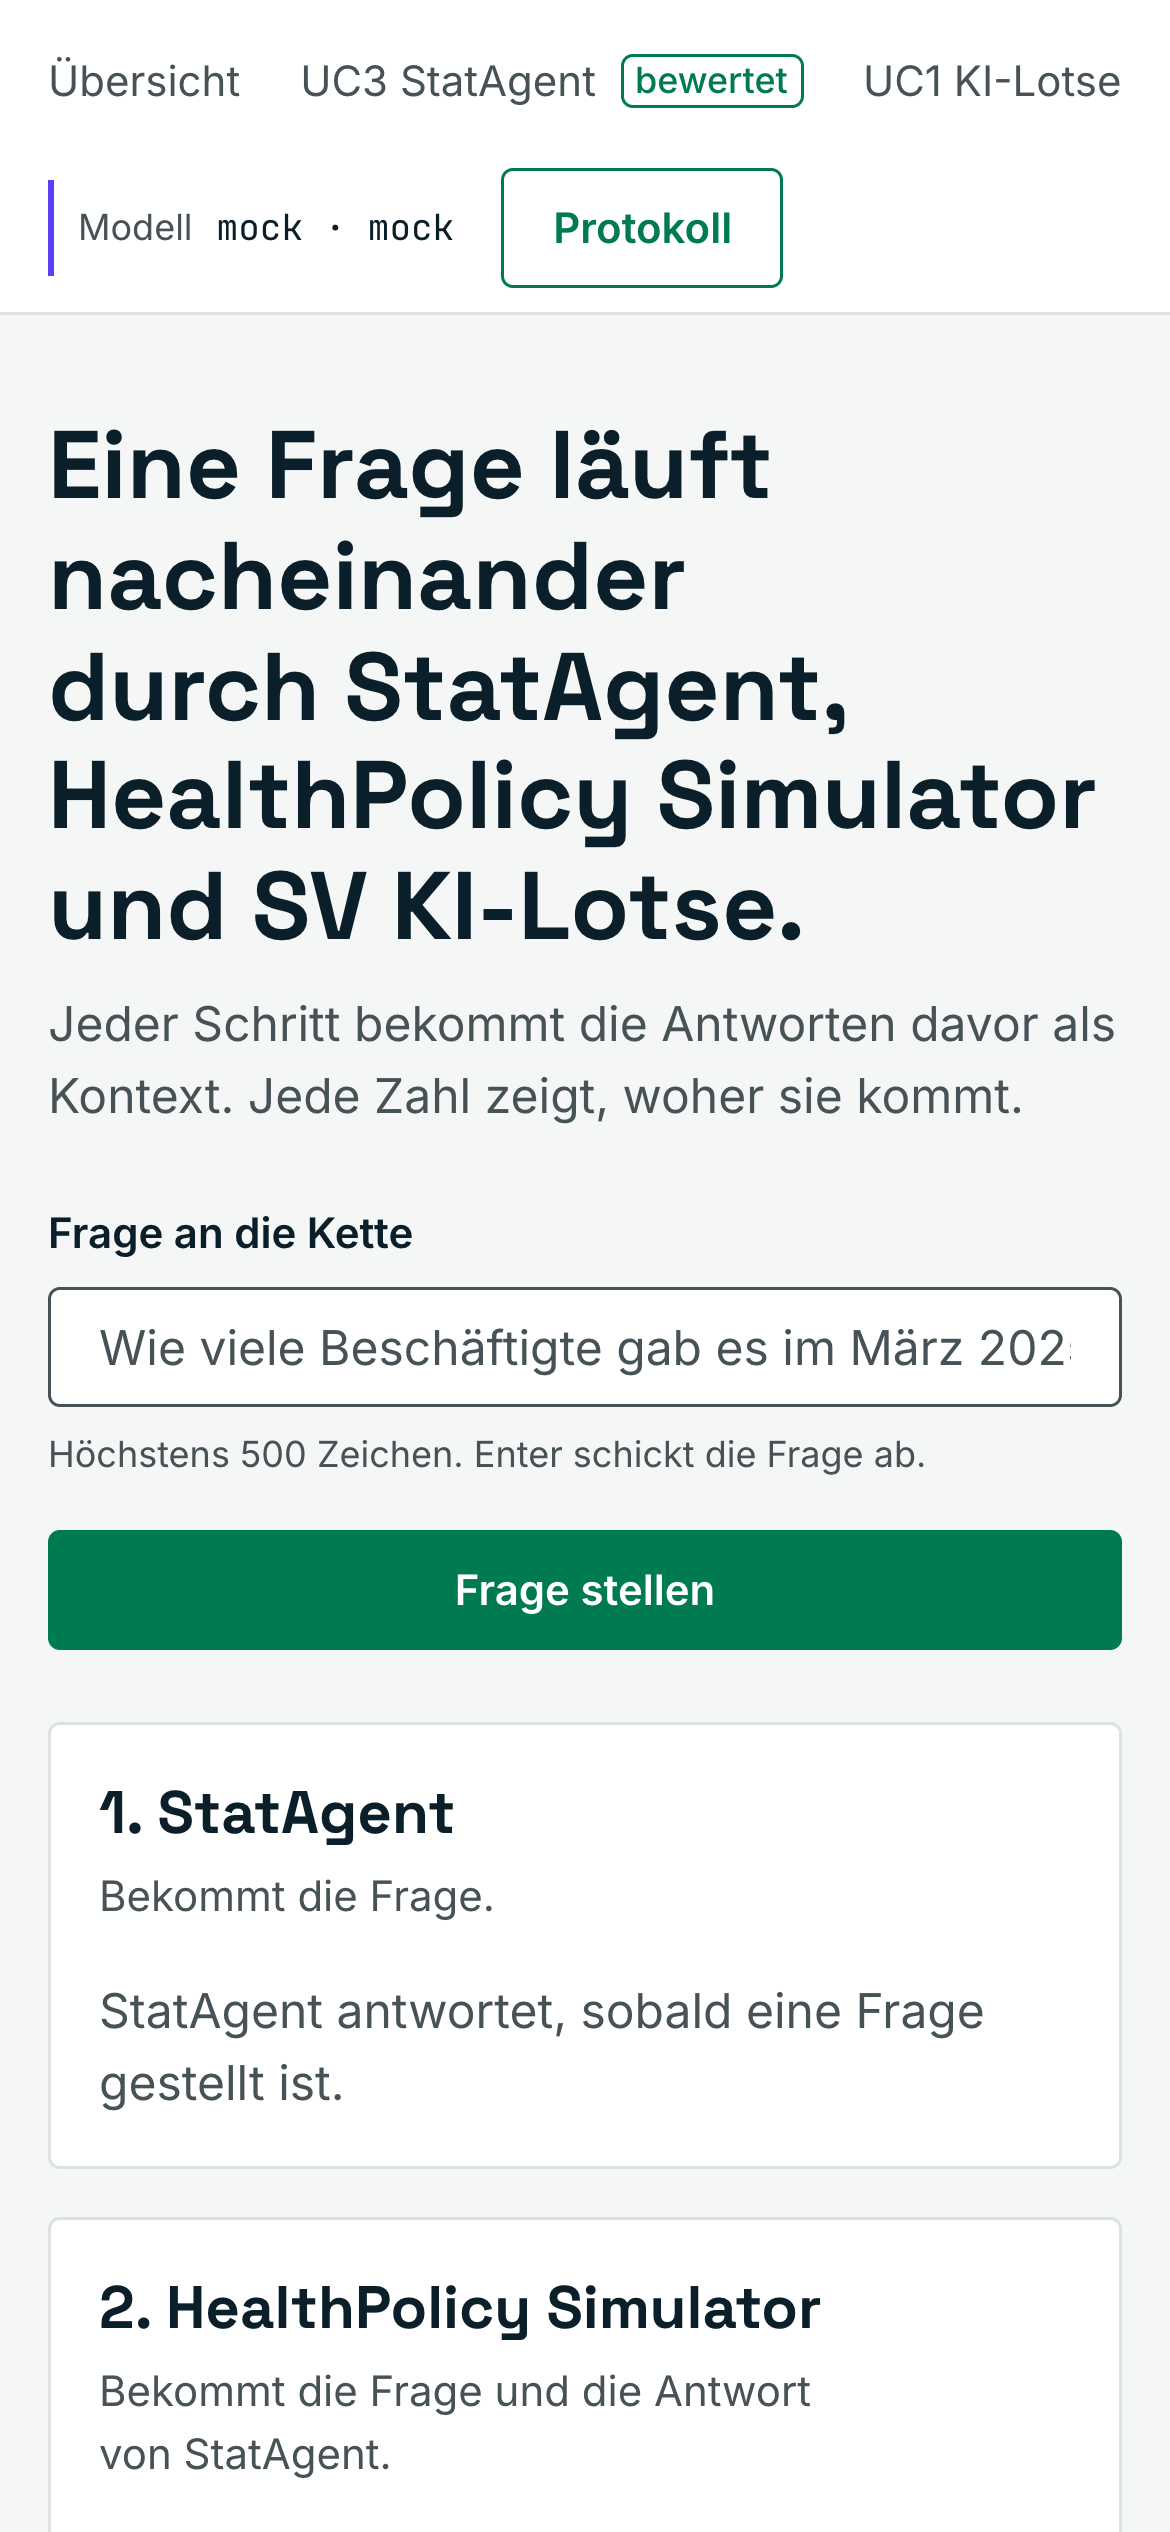
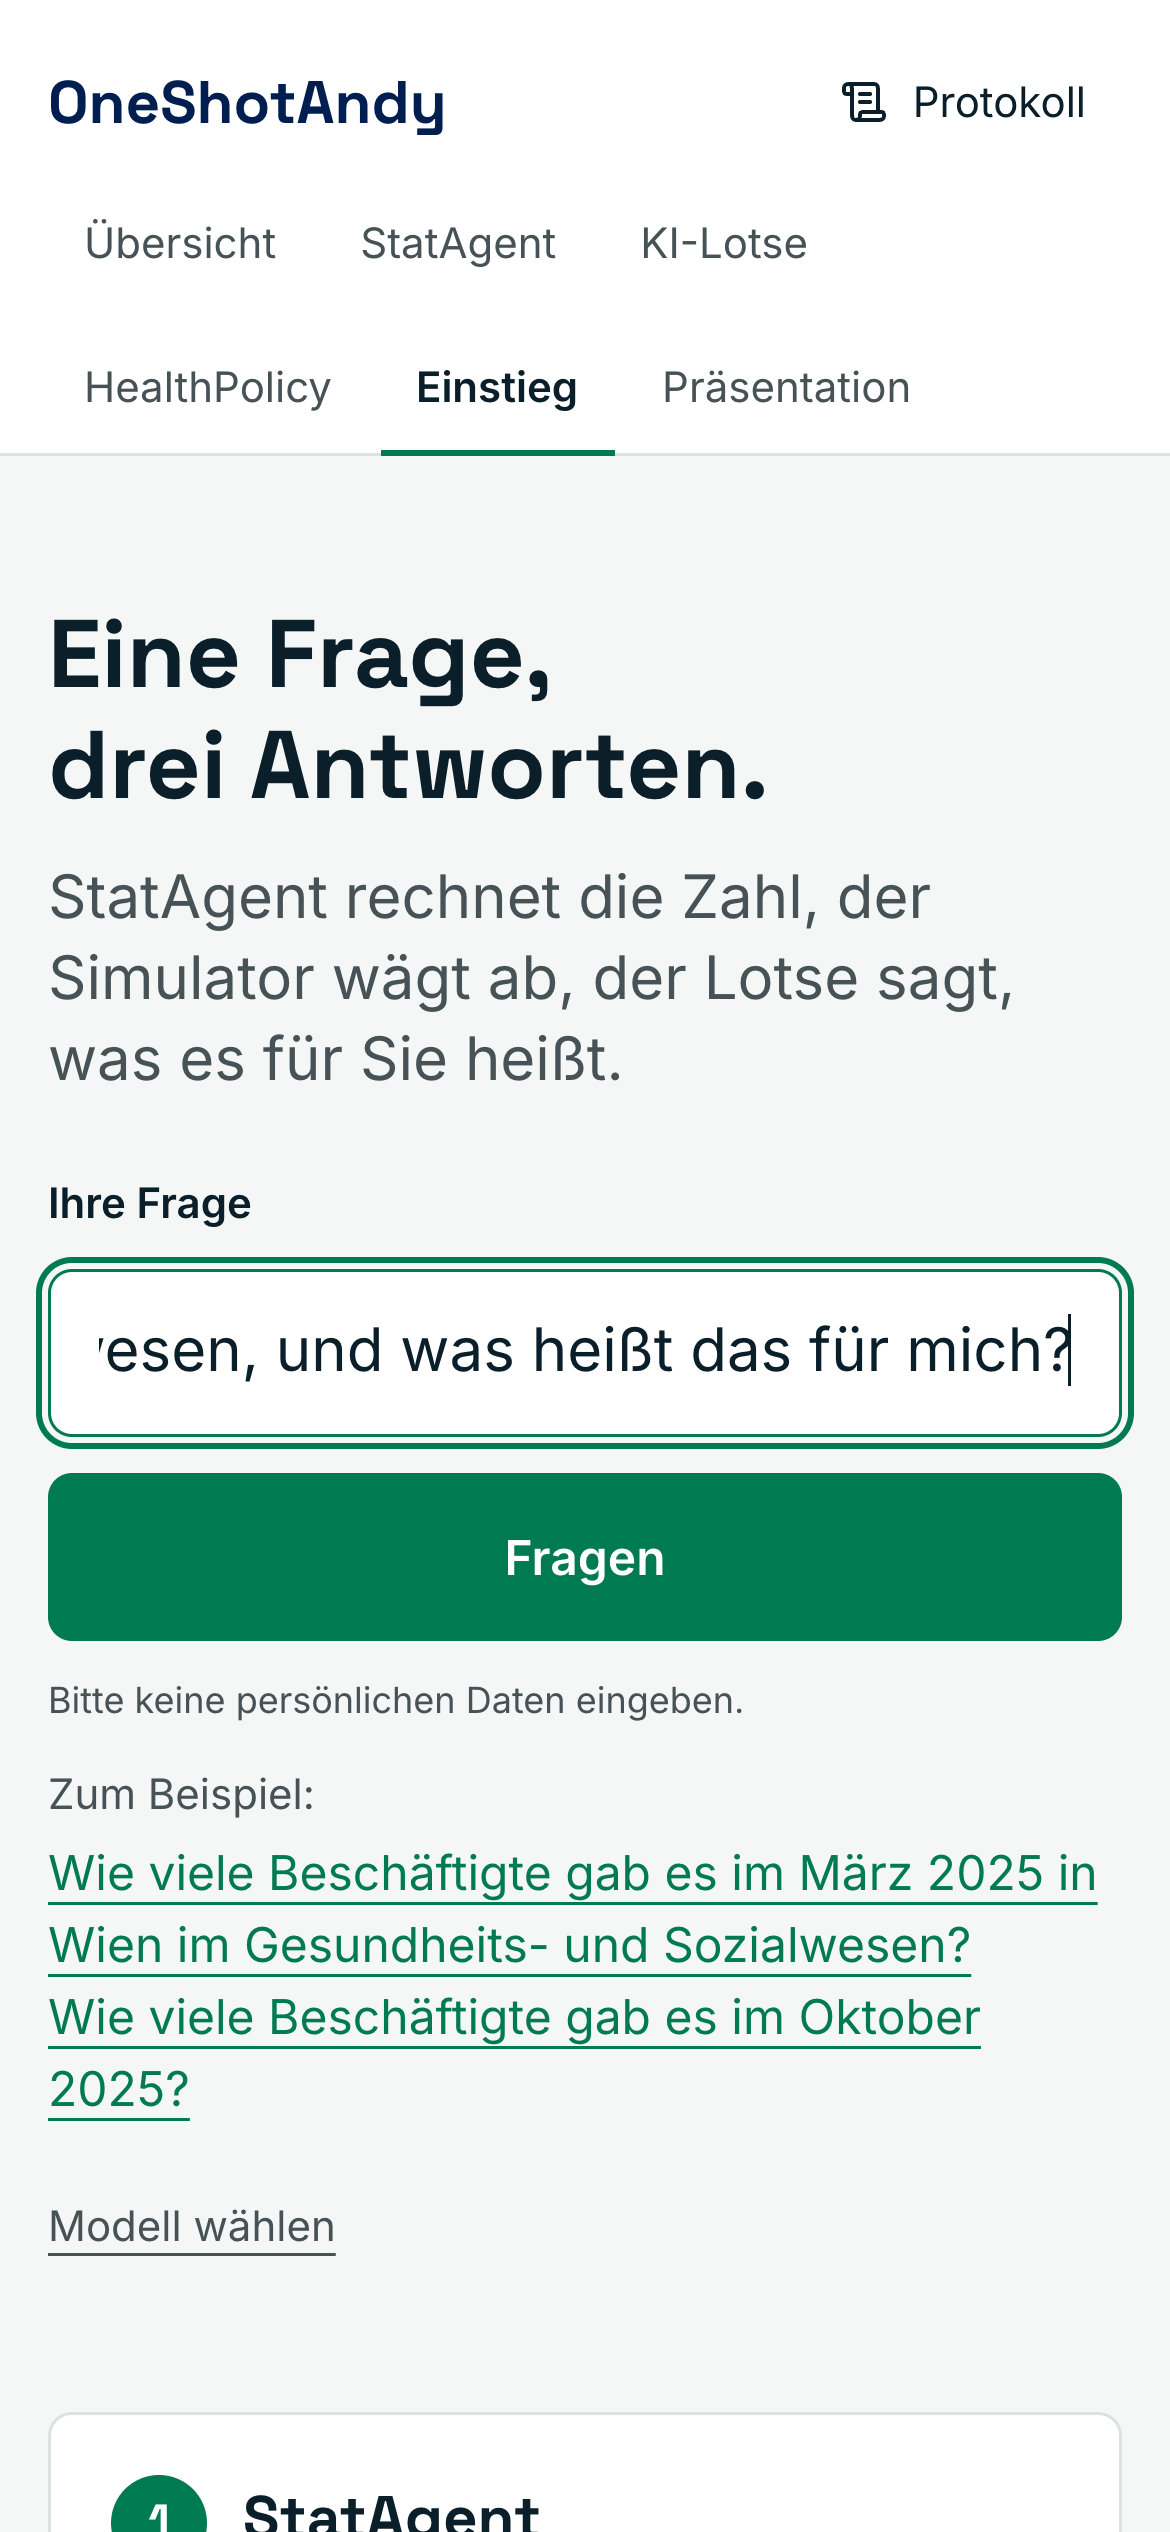
feat(e5): Screenshots SC01 bis SC12 von der Online-Demo, Werkzeug auf den neuen Stand (#88, #141)
12/12 gültig laut screens_manifest.py --check. SC11 stellt die Wien-Frage und
bricht ab, wenn 7.498 fehlt. SC02 und SC08 klappen ihre Regel samt Begründung
auf. SC12 zeigt Vorschlag 24 mit Zahlen vorher und nachher. Die Sichtprüfung
durch eine zweite Person ist noch offen.

diff --git a/docs/praesentation/screens-manifest.md b/docs/praesentation/screens-manifest.md
@@ -5,19 +5,30 @@ Je Bild stehen Herkunft (Route, Commit, Lauf) und Art (live, Testdaten, Aufzeich
 
 | Bild | Motiv | Folie | Datei vorhanden | Breite | Höhe | SHA-256 | Route | Commit | Lauf | Art | aufgenommen am |
 |---|---|---|---|---|---|---|---|---|---|---|---|
-| SC01 | Monatsläufe: 24 Monate mit Status | 3 | nein | – | – | – | /uc3 | – | – | offen | – |
-| SC02 | Eine Regel mit Gültigkeit, Begründung und Freigabe | 4 | nein | – | – | – | /uc3/berichte/regeln | – | – | offen | – |
-| SC03 | Gemeinsamer Einstieg: eine Frage an alle drei | 1 | nein | – | – | – | /uc4 | – | – | offen | – |
-| SC04 | Qualitätsbericht August 2024, der Monat der Vorlage | 5 | nein | – | – | – | /uc3/berichte/2024-08 | – | – | offen | – |
-| SC05 | Zwei Branchenlisten mit Gültigkeit | 7 | nein | – | – | – | /uc3/klassifikationen | – | – | offen | – |
-| SC06 | Qualitätsbericht März 2025 mit Auffälligkeiten | 6 | nein | – | – | – | /uc3/berichte/2025-03 | – | – | offen | – |
-| SC07 | Qualitätsbericht Oktober 2025, Monat angehalten | 3 | nein | – | – | – | /uc3/berichte/2025-10 | – | – | offen | – |
-| SC08 | Regel R5_alter als Daten | 8 | nein | – | – | – | /uc3/berichte/regeln | – | – | offen | – |
-| SC09 | Übersicht: drei Use Cases, ein Kern | 2 | nein | – | – | – | / | – | – | offen | – |
-| SC10 | Erledigte Freigabe mit Name und Wirkung | 10 | nein | – | – | – | /uc3/freigaben?reiter=erledigt | – | – | offen | – |
-| SC11 | Gemeinsamer Einstieg mit Antwort und Beleg | 9 | ja | 1920 | 1080 | `4f2307d2fb7b7b90`[^SC11] | /uc4 | 4495de3cf9f5 | – | live | 2026-11-05T16:27:58+01:00 |
-| SC12 | Agent-Vorschlag mit Diff vor der Freigabe | 4 | nein | – | – | – | /uc3/freigaben | – | – | offen | – |
+| SC01 | Monatsläufe: 24 Monate mit Status | 3 | ja | 1920 | 1080 | `b379e5c461b4b28b`[^SC01] | /uc3 | fd936b3 | Online-Demo, Stand 05.11.2026 | live | 2026-11-05T22:11+01:00 |
+| SC02 | Eine Regel mit Gültigkeit, Begründung und Freigabe | 4 | ja | 1920 | 1080 | `c08fe54b92e8b636`[^SC02] | /uc3/berichte/regeln | fd936b3 | Online-Demo, Stand 05.11.2026 | live | 2026-11-05T22:11+01:00 |
+| SC03 | Gemeinsamer Einstieg: eine Frage an alle drei | 1 | ja | 1920 | 1080 | `250966055cd39cd6`[^SC03] | /uc4 | fd936b3 | Online-Demo, Stand 05.11.2026 | live | 2026-11-05T22:11+01:00 |
+| SC04 | Qualitätsbericht August 2024, der Monat der Vorlage | 5 | ja | 1920 | 1080 | `a16262ed95ad2269`[^SC04] | /uc3/berichte/2024-08 | fd936b3 | Online-Demo, Stand 05.11.2026 | live | 2026-11-05T22:11+01:00 |
+| SC05 | Zwei Branchenlisten mit Gültigkeit | 7 | ja | 1920 | 1080 | `48a9db9d2fddce06`[^SC05] | /uc3/klassifikationen | fd936b3 | Online-Demo, Stand 05.11.2026 | live | 2026-11-05T22:11+01:00 |
+| SC06 | Qualitätsbericht März 2025 mit Auffälligkeiten | 6 | ja | 1920 | 1080 | `cbccd9f9f81987fa`[^SC06] | /uc3/berichte/2025-03 | fd936b3 | Online-Demo, Stand 05.11.2026 | live | 2026-11-05T22:11+01:00 |
+| SC07 | Qualitätsbericht Oktober 2025, Monat angehalten | 3 | ja | 1920 | 1080 | `aa4ea228e3452768`[^SC07] | /uc3/berichte/2025-10 | fd936b3 | Online-Demo, Stand 05.11.2026 | live | 2026-11-05T22:11+01:00 |
+| SC08 | Regel R5_alter als Daten | 8 | ja | 1920 | 1080 | `cdbfac747cf62de2`[^SC08] | /uc3/berichte/regeln | fd936b3 | Online-Demo, Stand 05.11.2026 | live | 2026-11-05T22:11+01:00 |
+| SC09 | Übersicht: drei Use Cases, ein Kern | 2 | ja | 1920 | 1080 | `16719f54a2b32a07`[^SC09] | / | fd936b3 | Online-Demo, Stand 05.11.2026 | live | 2026-11-05T22:11+01:00 |
+| SC10 | Erledigte Freigabe mit Name und Wirkung | 10 | ja | 1920 | 1080 | `5a0035f8ca340db4`[^SC10] | /uc3/freigaben/26 | fd936b3 | Online-Demo, Stand 05.11.2026 | live | 2026-11-05T22:11+01:00 |
+| SC11 | Gemeinsamer Einstieg mit der Wien-Frage: drei Antworten, 7.498 mit Beleg | 9 | ja | 1920 | 1080 | `25542604c2c87b42`[^SC11] | /uc4 | fd936b3 | Online-Demo, Stand 05.11.2026 | live | 2026-11-05T22:11+01:00 |
+| SC12 | Agent-Vorschlag mit Diff vor der Freigabe | 4 | ja | 1920 | 1080 | `4da0590773104b52`[^SC12] | /uc3/freigaben/24 | fd936b3 | Online-Demo, Stand 05.11.2026 | live | 2026-11-05T22:11+01:00 |
 
-Stand: 1/12 vorhanden, 0/12 gültig
+Stand: 12/12 vorhanden, 12/12 gültig
 
[13 lines of base64/hex data omitted]

diff --git a/docs/praesentation/screens-sichtpruefung.md b/docs/praesentation/screens-sichtpruefung.md
@@ -4,17 +4,17 @@ Jedes Bild wird von einer zweiten Person oder einem unabhängigen Prüfer angese
 
 | Bild | Prüfer | Datum | Sichtbare Tokens/Schlüssel (ja/nein) | Echte Gesundheits- oder Sozialdaten (ja/nein) | Befund | Status (offen/ok) |
 |---|---|---|---|---|---|---|
-| SC01 | | | | | Kein Bild, die UC3-Seiten zeigten online nur die Meldung, dass die Zahlen nicht lesbar sind (05.11. 17:38). | offen |
-| SC02 | | | | | Kein Bild, die UC3-Seiten zeigten online nur die Meldung, dass die Zahlen nicht lesbar sind (05.11. 17:38). | offen |
-| SC03 | | | | | Kein Bild, das Motiv entfällt, weil keine Webseite den Aufruf uc3 lauf zeigt. | offen |
-| SC04 | | | | | Kein Bild, das Motiv entfällt, weil keine Webseite den Zellvergleich zeigt. | offen |
-| SC05 | | | | | Kein Bild, das Motiv entfällt, weil das Aggregations-Sheet eine Datei und keine Webseite ist. | offen |
-| SC06 | | | | | Kein Bild, die UC3-Seiten zeigten online nur die Meldung, dass die Zahlen nicht lesbar sind (05.11. 17:38). | offen |
-| SC07 | | | | | Kein Bild, die UC3-Seiten zeigten online nur die Meldung, dass die Zahlen nicht lesbar sind (05.11. 17:38). | offen |
-| SC08 | | | | | Kein Bild, die UC3-Seiten zeigten online nur die Meldung, dass die Zahlen nicht lesbar sind (05.11. 17:38). | offen |
-| SC09 | | | | | Kein Bild, die UC3-Seiten zeigten online nur die Meldung, dass die Zahlen nicht lesbar sind (05.11. 17:38). | offen |
-| SC10 | | | | | Kein Bild, die UC3-Seiten zeigten online nur die Meldung, dass die Zahlen nicht lesbar sind (05.11. 17:38). | offen |
-| SC11 | Agent ui-developer (Vorprüfung) | 2026-11-05 | nein | nein | Desktop zeigt die UC4-Seite mit Kopfleiste, Eingabefeld und drei leeren Karten der Kette, keine Fehlermeldung. Die Kopfleiste zeigt noch „Modell wird geprüft“. Die zweite Person fehlt noch. | offen |
-| SC12 | | | | | Kein Bild, die UC3-Seiten zeigten online nur die Meldung, dass die Zahlen nicht lesbar sind (05.11. 17:38). | offen |
+| SC01 | | | | | offen, Bild vom 05.11.2026 22:11 |
+| SC02 | | | | | offen, Bild vom 05.11.2026 22:11 |
+| SC03 | | | | | offen, Bild vom 05.11.2026 22:11 |
+| SC04 | | | | | offen, Bild vom 05.11.2026 22:11 |
+| SC05 | | | | | offen, Bild vom 05.11.2026 22:11 |
+| SC06 | | | | | offen, Bild vom 05.11.2026 22:11 |
+| SC07 | | | | | offen, Bild vom 05.11.2026 22:11 |
+| SC08 | | | | | offen, Bild vom 05.11.2026 22:11 |
+| SC09 | | | | | offen, Bild vom 05.11.2026 22:11 |
+| SC10 | | | | | offen, Bild vom 05.11.2026 22:11 |
+| SC11 | | | | | offen, Bild vom 05.11.2026 22:11 |
+| SC12 | | | | | offen, Bild vom 05.11.2026 22:11 |
 
 Offene Befunde: 12

diff --git a/docs/praesentation/management-faq.md b/docs/praesentation/management-faq.md
@@ -40,7 +40,7 @@ Beleg: `README.md`, Abschnitt Lizenzen. Dauer einer Einführung: nicht gemessen.
 | Alle Anläufe rund um die drei Aufträge (05.11.2026) | 50 | 457.462 und 19.342 | | 39 bis 43 Cent |
 | Typischer Lauf (Median) aus 246 Läufen in den Proben | 2 | 15.380 und 320 | 3,0 s | 1,2 bis 1,3 Cent |
 
-- **Preis:** Azure-Preisliste (`prices.azure.com`, Region West Europe, abgerufen 05.11.2026): GPT 5.4 mini, je Million Tokens, Global 0,6733 € hinein und 4,0397 € heraus, Data Zone 0,7406 € und 4,4436 €. Die Spanne oben kommt aus diesen zwei Preisen, welcher für unsere Bereitstellung gilt, wissen wir nicht. Der Veranstalter stellt den Zugang, eine Rechnung haben wir nicht gesehen.
+- **Preis:** Azure-Preisliste (`prices.azure.com`, Region West Europe, abgerufen 05.11.2026): GPT 5.4 mini, je Million Tokens, Global 0,6733 € hinein und 4,0397 € heraus, Data Zone 0,7406 € und 4,4436 €. Die Spanne oben kommt aus diesen zwei Preisen, welcher für unsere Bereitstellung gilt, wissen wir nicht. Den Zugang stellt der Veranstalter.
 - **Tokens:** Protokoll der Modellaufrufe `var/protokoll/modellaufrufe.jsonl`, je Aufruf eine Zeile ohne Inhalt. Die Datei liegt je Arbeitsstand getrennt und nicht im Repo. Ausgewertet wurden drei davon.
 - **Nicht jeder Satz sitzt beim ersten Mal:** Auftrag 1 kam im ersten Anlauf, die Aufträge 2 und 3 brauchten mehrere. Die Zuordnung folgt aus den Zeitstempeln im Protokoll.
 - **Monatliche Betriebskosten:** nicht gemessen.

diff --git a/docs/praesentation/uc3-jury.md b/docs/praesentation/uc3-jury.md
@@ -80,5 +80,5 @@ Bernhard nennt sie von sich aus oder auf Nachfrage und versteckt sie nicht.
 
 - **Probe:** Fr 06:00 nach `probe.md`, Pfad A und Pfad B je einmal mit Uhr. Entscheide um 06:45: Teil 2 von D2, freie Datenfragen, Wien-Frage.
 - **Rückfall:** Hotspot wechseln, dann Terminal, dann Video (`demo-drehbuch.md`, Abschnitt „Rückfall“).
-- **Backup-Video:** Probelauf vom 05.11. 21:25 auf `main`, 2:34 Minuten. Das Endvideo entsteht bis 05:45 auf dem Stand des Freeze, Datei, Dauer und SHA-256 in `backup-video.md`. Es wird immer angesagt: „Das ist eine Aufzeichnung von heute früh.“
+- **Backup-Video:** Probelauf vom 05.11. 22:06 auf dem Stand von `main`, 2:43 Minuten. Das Endvideo entsteht bis 05:45 auf dem Stand des Freeze, Datei, Dauer und SHA-256 in `backup-video.md`. Es wird immer angesagt: „Das ist eine Aufzeichnung von heute früh.“
 - **USB-Stick:** beide Folien-PDFs und das Video (`docs/praesentation/werkzeug/README.md`).
